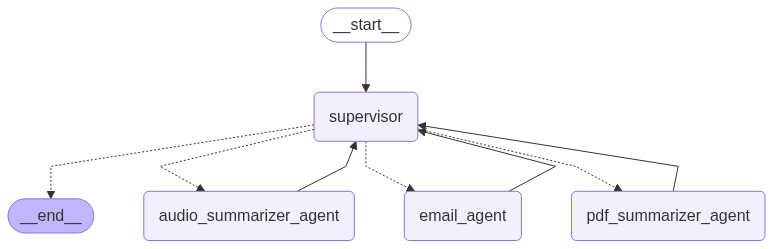
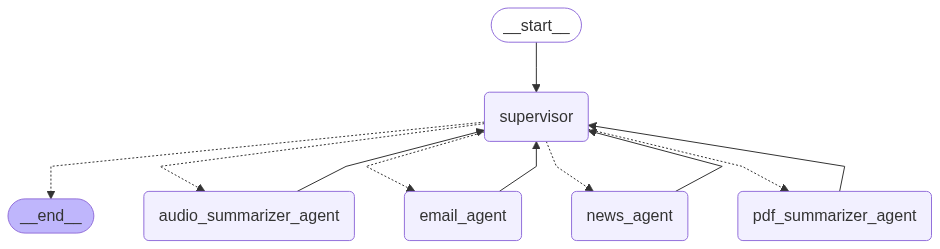
fastapi

diff --git a/agents/supervisor_agent.py b/agents/supervisor_agent.py
@@ -7,6 +7,7 @@ from langgraph.types import Command
 from emailer_agent import email_agent
 from audio_summary_agent import audio_summarizer_agent
 from notes_agent import pdf_summarizer_agent
+from news_agent import news_search_agent
 from llms import load_llm
 from dotenv import load_dotenv
 import os
@@ -43,11 +44,12 @@ def create_handoff_tool(agent_name: str, description: str | None = None):
 assign_to_pdf_agent = create_handoff_tool("pdf_summarizer_agent")
 assign_to_audio_agent = create_handoff_tool("audio_summarizer_agent")
 assign_to_email_agent = create_handoff_tool("email_agent")
+assign_to_news_agent = create_handoff_tool("news_agent")
 
 # --- Supervisor Agent ---
 supervisor_agent = create_react_agent(
     model=llm,
-    tools=[assign_to_pdf_agent, assign_to_audio_agent, assign_to_email_agent],
+    tools=[assign_to_pdf_agent, assign_to_audio_agent, assign_to_email_agent, assign_to_news_agent],
     prompt=(
         "You are a supervisor managing three agents:\n"
         "- PDF summarizer\n- Audio summarizer\n- Emailer\n\n"
@@ -62,14 +64,16 @@ supervisor_agent = create_react_agent(
 # --- LangGraph Wiring ---
 supervisor_graph = (
     StateGraph(MessagesState)
-    .add_node("supervisor", supervisor_agent, destinations=("pdf_summarizer_agent", "audio_summarizer_agent", "email_agent",END))
+    .add_node("supervisor", supervisor_agent, destinations=("pdf_summarizer_agent", "audio_summarizer_agent", "email_agent","news_agent",END))
     .add_node("pdf_summarizer_agent", pdf_summarizer_agent, input_updates=lambda state: {**state,"summary": state["messages"][-1].content})
     .add_node("audio_summarizer_agent", audio_summarizer_agent, input_updates=lambda state:{**state, "summary": state["messages"][-1].content})
+    .add_node("news_agent", news_search_agent, input_updates=lambda state:{**state, "summary": state["messages"][-1].content})
     .add_node("email_agent", email_agent)
     .add_edge(START, "supervisor")
     .add_edge("pdf_summarizer_agent", "supervisor")
     .add_edge("audio_summarizer_agent", "supervisor")
     .add_edge("email_agent", "supervisor")
+    .add_edge("news_agent", "supervisor")
     .compile()
 )
 
@@ -83,8 +87,8 @@ supervisor_graph = (
 if __name__ == "__main__":
     input_messages = [{
         "role": "user",
-        "content": "summarize the audio at /Users/gagan/Documents/bayer-agentic-usecase/segment_2_29.72_49.71.mp3 and email the summary to kummurgagan@gmail.com"
+        "content": "what is the current news"
     }]
 
     final_state = supervisor_graph.invoke({"messages": input_messages})
-    # print_last_assistant_message(final_state)
+    print(final_state)

diff --git a/agents/news_agent.py b/agents/news_agent.py
@@ -1,0 +1,23 @@
+from langgraph.prebuilt import create_react_agent
+from langchain_tavily import TavilySearch
+from dotenv import load_dotenv
+from llms import load_llm
+load_dotenv()
+web_search = TavilySearch()
+
+llm = load_llm()
+
+news_search_agent = create_react_agent(
+    model = llm,
+    tools = [web_search],
+ 
+    prompt = (
+        "You are a news research agent.\n\n"
+        "INSTRUCTIONS:\n"
+        "- Assist ONLY with news related tasks.\n"
+        "- Use the web_search tool to find relevant news as instructed.\n"
+        "- After you're done with your tasks, respond to the supervisor directly\n"
+        "- Respond ONLY with the results of your work, do NOT include ANY other text."
+    ),
+    name = "news_agent"
+)
